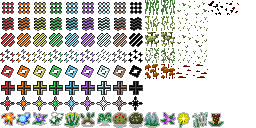
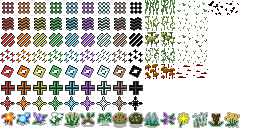
quick commit before dmg reowrking

Changed region(s): [[0.875, 0.875, 0.9375, 1.0]]

diff --git a/core/src/com/moonshinepixel/moonshinepixeldungeon/actors/hero/HeroClass.java b/core/src/com/moonshinepixel/moonshinepixeldungeon/actors/hero/HeroClass.java
@@ -21,20 +21,14 @@
 package com.moonshinepixel.moonshinepixeldungeon.actors.hero;
 
 import com.moonshinepixel.moonshinepixeldungeon.*;
-import com.moonshinepixel.moonshinepixeldungeon.actors.mobs.Mob;
-import com.moonshinepixel.moonshinepixeldungeon.actors.mobs.Yog;
 import com.moonshinepixel.moonshinepixeldungeon.items.*;
-import com.moonshinepixel.moonshinepixeldungeon.items.artifacts.EtherealChains;
 import com.moonshinepixel.moonshinepixeldungeon.items.artifacts.GunslingerSubbag;
 import com.moonshinepixel.moonshinepixeldungeon.items.artifacts.MasterThievesArmband;
-import com.moonshinepixel.moonshinepixeldungeon.items.bombs.AshBomb;
 import com.moonshinepixel.moonshinepixeldungeon.items.bombs.Bomb;
 import com.moonshinepixel.moonshinepixeldungeon.items.bombs.ClusterBomb;
 import com.moonshinepixel.moonshinepixeldungeon.items.bombs.ShrapnelBomb;
-import com.moonshinepixel.moonshinepixeldungeon.items.craftingitems.Scrap;
 import com.moonshinepixel.moonshinepixeldungeon.items.food.Food;
 import com.moonshinepixel.moonshinepixeldungeon.items.food.Moonshine;
-import com.moonshinepixel.moonshinepixeldungeon.items.grimoires.GrimoireOfWind;
 import com.moonshinepixel.moonshinepixeldungeon.items.guns.*;
 import com.moonshinepixel.moonshinepixeldungeon.items.potions.PotionOfStorm;
 import com.moonshinepixel.moonshinepixeldungeon.items.rings.Ring;
@@ -42,14 +36,11 @@ import com.moonshinepixel.moonshinepixeldungeon.items.rings.RingOfEvasion;
 import com.moonshinepixel.moonshinepixeldungeon.items.scrolls.*;
 import com.moonshinepixel.moonshinepixeldungeon.items.traps.TrapPlacer;
 import com.moonshinepixel.moonshinepixeldungeon.items.weapon.Weapon;
-import com.moonshinepixel.moonshinepixeldungeon.items.weapon.curses.Sacrificial;
 import com.moonshinepixel.moonshinepixeldungeon.items.weapon.enchantments.*;
 import com.moonshinepixel.moonshinepixeldungeon.items.weapon.melee.*;
 import com.moonshinepixel.moonshinepixeldungeon.items.weapon.missiles.Boomerang;
 import com.moonshinepixel.moonshinepixeldungeon.items.weapon.missiles.Dart;
-import com.moonshinepixel.moonshinepixeldungeon.items.weapon.missiles.ammo.bullets.BleedingBullet;
 import com.moonshinepixel.moonshinepixeldungeon.levels.traps.GrippingTrap;
-import com.moonshinepixel.moonshinepixeldungeon.levels.traps.OozeTrap;
 import com.moonshinepixel.moonshinepixeldungeon.messages.Messages;
 import com.moonshinepixel.moonshinepixeldungeon.items.potions.PotionOfHealing;
 import com.moonshinepixel.moonshinepixeldungeon.items.potions.PotionOfMindVision;
@@ -57,13 +48,11 @@ import com.moonshinepixel.moonshinepixeldungeon.items.wands.WandOfMagicMissile;
 import com.moonshinepixel.moonshinepixeldungeon.items.weapon.missiles.ammo.bullets.Bullet;
 import com.moonshinepixel.moonshinepixeldungeon.items.armor.ClothArmor;
 import com.moonshinepixel.moonshinepixeldungeon.items.artifacts.CloakOfShadows;
-import com.moonshinepixel.moonshinepixeldungeon.plants.Fadeleaf;
 import com.moonshinepixel.moonshinepixeldungeon.plants.Plant;
+import com.moonshinepixel.moonshinepixeldungeon.plants.RainPoppy;
 import com.moonshinepixel.moonshinepixeldungeon.plants.Sungrass;
 import com.watabou.noosa.Game;
 import com.watabou.utils.Bundle;
-
-import javax.rmi.CORBA.Tie;
 
 public enum HeroClass {
 
@@ -161,6 +150,9 @@ public enum HeroClass {
 		r.upgrade(150);
 		r.identify().collect();
 //		hero.belongings.weapon.tier=6;
+
+		Plant.Seed sed = new RainPoppy.Seed();
+		sed.collect();
 	}
 
 	private static void initCommon( Hero hero ) {

diff --git a/core/src/com/moonshinepixel/moonshinepixeldungeon/plants/RainPoppy.java b/core/src/com/moonshinepixel/moonshinepixeldungeon/plants/RainPoppy.java
@@ -25,7 +25,7 @@ import com.moonshinepixel.moonshinepixeldungeon.items.food.Blandfruit;
 import com.moonshinepixel.moonshinepixeldungeon.items.potions.PotionOfStorm;
 import com.moonshinepixel.moonshinepixeldungeon.sprites.ItemSpriteSheet;
 
-public class PotionOfStormPlant extends Plant {
+public class RainPoppy extends Plant {
 
 	{
 		image = 14;
@@ -38,9 +38,9 @@ public class PotionOfStormPlant extends Plant {
 
 	public static class Seed extends Plant.Seed {
 		{
-			image = ItemSpriteSheet.SEED_POTIONOFSTORM;
+			image = ItemSpriteSheet.SEED_RAINPOPPY;
 
-			plantClass = PotionOfStormPlant.class;
+			plantClass = RainPoppy.class;
 			alchemyClass = PotionOfStorm.class;
 		}
 

diff --git a/core/src/com/moonshinepixel/moonshinepixeldungeon/sprites/ItemSpriteSheet.java b/core/src/com/moonshinepixel/moonshinepixeldungeon/sprites/ItemSpriteSheet.java
@@ -441,6 +441,7 @@ public class ItemSpriteSheet {
 	public static final int SEED_EARTHROOT  = SEEDS+9;
 	public static final int SEED_FADELEAF   = SEEDS+10;
 	public static final int SEED_BLANDFRUIT = SEEDS+11;
+	public static final int SEED_RAINPOPPY  = SEEDS+12;
 	static{
 		for (int i = SEEDS; i < SEEDS+16; i++)
 			assignItemRect(i, 10, 10);

diff --git a/core/src/com/moonshinepixel/moonshinepixeldungeon/Dungeon.java b/core/src/com/moonshinepixel/moonshinepixeldungeon/Dungeon.java
@@ -211,7 +211,7 @@ public class Dungeon {
 		QuickSlotButton.reset();
 
 		storyline=MoonshinePixelDungeon.storyline();
-		depth = storyline==0?0:MoonshinePixelDungeon.previewmode?26:30;
+		depth = storyline==0?0:MoonshinePixelDungeon.previewmode?30:30;
 		gold = 0;
 
 		droppedItems = new SparseArray<ArrayList<Item>>();
